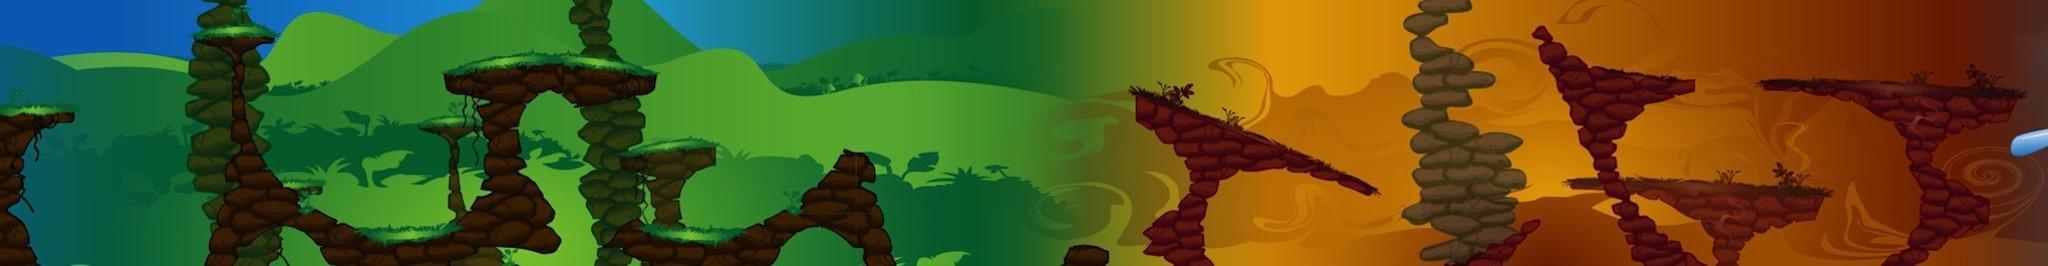
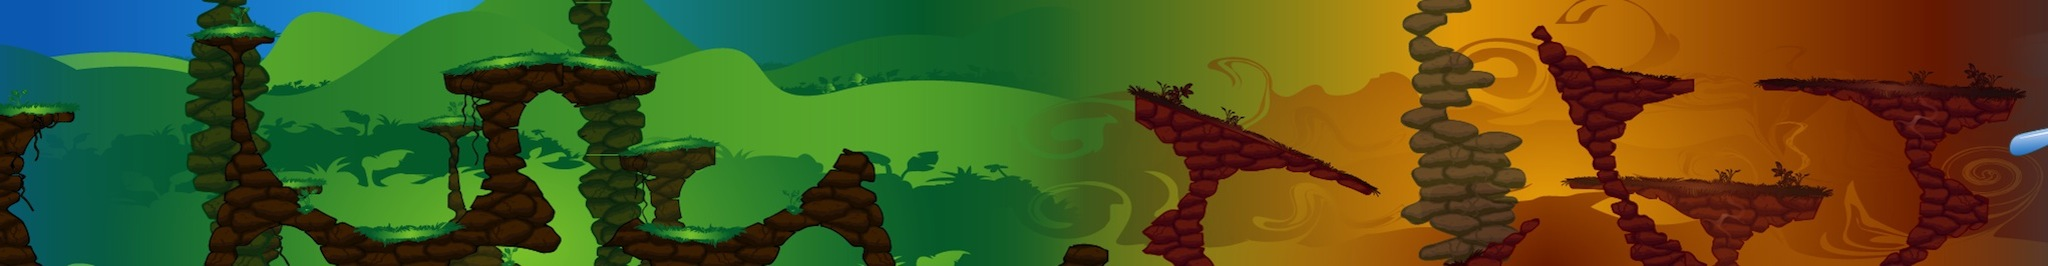
Added theme select world background image.

diff --git a/Beezle/Classes/State/LevelThemeSelectMenuState.m b/Beezle/Classes/State/LevelThemeSelectMenuState.m
@@ -8,23 +8,23 @@
 
 #import "LevelThemeSelectMenuState.h"
 #import "Game.h"
-#import "LevelOrganizer.h"
 #import "LevelThemeSelectLayer.h"
 #import "LevelSelectMenuState.h"
 #import "SoundManager.h"
 #import "PlayState.h"
 #import "Utils.h"
 #import "BeesFrontNode.h"
+#import "PlayerInformation.h"
+#import "LevelOrganizer.h"
 
 static BOOL isFirstLoad = TRUE;
-static const int NUMBER_OF_SECTIONS_IN_BACKGROUND_IMAGE = 4;
 static const float PAGE_DOT_DISTANCE = 10.0f;
 
 @interface LevelThemeSelectMenuState()
 
 -(void) createBackgroundSprite;
 -(void) createBackMenu;
--(void) createScrollLayer:(NSArray *)themes;
+-(void) createScrollLayer;
 -(void) updateBackground;
 -(void) updatePageDots:(int)page;
 
@@ -54,12 +54,18 @@ static const float PAGE_DOT_DISTANCE = 10.0f;
 
 -(id) init
 {
-	return [self initWithPreselectedTheme:[[[LevelOrganizer sharedOrganizer] visibleThemes] objectAtIndex:0]];
+	return [self initWithPreselectedTheme:[[[PlayerInformation sharedInformation] visibleThemes] objectAtIndex:0]];
 }
 
 -(void) initialise
 {
 	[super initialise];
+
+#ifdef DEBUG
+	_themes = [[[LevelOrganizer sharedOrganizer] themes] retain];
+#else
+	_themes = [[[PlayerInformation sharedInformation] visibleThemes] retain];
+#endif
 
 	[self createBackgroundSprite];
 
@@ -70,16 +76,15 @@ static const float PAGE_DOT_DISTANCE = 10.0f;
 	CGSize winSize = [[CCDirector sharedDirector] winSize];
 	_layerOffset = (int)(winSize.width * 0.42f);
 
-	NSArray *visibleThemes = [[LevelOrganizer sharedOrganizer] visibleThemes];
-	[self createScrollLayer:visibleThemes];
+	[self createScrollLayer];
 
-	_numberOfPages = [visibleThemes count];
+	_numberOfPages = [_themes count];
 
 	[self addChild:[BeesFrontNode node] z:31];
 
 	[self createBackMenu];
 
-	int index = [visibleThemes indexOfObject:_theme];
+	int index = [_themes indexOfObject:_theme];
 	[_scrollLayer selectPage:index];
 
 	[self updateBackground];
@@ -88,6 +93,7 @@ static const float PAGE_DOT_DISTANCE = 10.0f;
 
 -(void) dealloc
 {
+	[_themes release];
 	[_backgroundSprite release];
 	[_scrollLayer release];
 	[_pageDotSprites release];
@@ -103,13 +109,32 @@ static const float PAGE_DOT_DISTANCE = 10.0f;
 	CCSprite *backgroundSprite1 = [CCSprite spriteWithFile:@"ChooserSlingerBackground-1.jpg"];
 	[backgroundSprite1 setAnchorPoint:CGPointZero];
 	[_backgroundSprite addChild:backgroundSprite1];
+	_backgroundSpriteWidth += [backgroundSprite1 contentSize].width;
 
-	CCSprite *backgroundSprite2 = [CCSprite spriteWithFile:@"ChooserSlingerBackground-2.jpg"];
-	[backgroundSprite2 setAnchorPoint:CGPointZero];
-	[backgroundSprite2 setPosition:CGPointMake([backgroundSprite1 contentSize].width, 0.0f)];
-	[_backgroundSprite addChild:backgroundSprite2];
+	if ([_themes count] > 2)
+	{
+		CCSprite *backgroundSprite2 = [CCSprite spriteWithFile:@"ChooserSlingerBackground-2.jpg"];
+		[backgroundSprite2 setAnchorPoint:CGPointZero];
+		[backgroundSprite2 setPosition:CGPointMake(_backgroundSpriteWidth, 0.0f)];
+		[_backgroundSprite addChild:backgroundSprite2];
+		if ([_themes count] > 3)
+		{
+			_backgroundSpriteWidth += [backgroundSprite2 contentSize].width;
+		}
+		else
+		{
+			_backgroundSpriteWidth += [backgroundSprite2 contentSize].width / 2;
+		}
+	}
 
-	_backgroundSpriteWidth = [backgroundSprite1 contentSize].width + [backgroundSprite2 contentSize].width;
+	if ([_themes count] > 4)
+	{
+		CCSprite *backgroundSprite3 = [CCSprite spriteWithFile:@"ChooserSlingerBackground-3.jpg"];
+		[backgroundSprite3 setAnchorPoint:CGPointZero];
+		[backgroundSprite3 setPosition:CGPointMake(_backgroundSpriteWidth, 0.0f)];
+		[_backgroundSprite addChild:backgroundSprite3];
+		_backgroundSpriteWidth += [backgroundSprite3 contentSize].width;
+	}
 
 	CGSize winSize = [[CCDirector sharedDirector] winSize];
 	[_backgroundSprite setPosition:CGPointMake(0.0f, (winSize.height - [backgroundSprite1 contentSize].height) / 2)];
@@ -130,10 +155,10 @@ static const float PAGE_DOT_DISTANCE = 10.0f;
 	[self addChild:backMenu z:40];
 }
 
--(void) createScrollLayer:(NSArray *)themes
+-(void) createScrollLayer
 {
 	NSMutableArray *layers = [NSMutableArray array];
-	for (NSString *theme in themes)
+	for (NSString *theme in _themes)
 	{
 		LevelThemeSelectLayer *levelThemeSelectLayer = [LevelThemeSelectLayer layerWithTheme:theme game:_game];
 		[layers addObject:levelThemeSelectLayer];
@@ -163,7 +188,7 @@ static const float PAGE_DOT_DISTANCE = 10.0f;
 	CGSize winSize = [[CCDirector sharedDirector] winSize];
 
 	float scrollLayerX = [_scrollLayer position].x;
-	float percent = -scrollLayerX / ((NUMBER_OF_SECTIONS_IN_BACKGROUND_IMAGE - 1) * (winSize.width - _layerOffset));
+	float percent = -scrollLayerX / (([_themes count] - 1) * (winSize.width - _layerOffset));
 	percent = min(percent, 1.0f);
 	percent = max(percent, 0.0f);
 	float backgroundSpritePadding = 120.0f;

diff --git a/Beezle/Classes/Level/LevelOrganizer.m b/Beezle/Classes/Level/LevelOrganizer.m
@@ -7,7 +7,6 @@
 //
 
 #import "LevelOrganizer.h"
-#import "PlayerInformation.h"
 
 @implementation LevelOrganizer
 
@@ -73,28 +72,6 @@
 -(NSArray *) themes
 {
 	return [[_levelNamesByTheme allKeys] sortedArrayUsingSelector:@selector(localizedCaseInsensitiveCompare:)];
-}
-
--(NSArray *) visibleThemes
-{
-	NSMutableArray *visibleThemes = [NSMutableArray array];
-	for (NSString *theme in [self themes])
-	{
-		BOOL includeTheme;
-		if ([self isThemeHidden:theme])
-		{
-			includeTheme = [[PlayerInformation sharedInformation] canPlayTheme:theme];
-		}
-		else
-		{
-			includeTheme = TRUE;
-		}
-		if (includeTheme)
-		{
-			[visibleThemes addObject:theme];
-		}
-	}
-	return visibleThemes;
 }
 
 -(NSArray *) levelNamesInTheme:(NSString *)theme
@@ -183,11 +160,7 @@
 
 -(BOOL) isThemeHidden:(NSString *)theme
 {
-#ifdef DEBUG
-	return FALSE;
-#else
 	return [[_hiddenByTheme objectForKey:theme] boolValue];
-#endif
 }
 
 @end

diff --git a/Beezle/Classes/Data/Persistent/PlayerInformation.m b/Beezle/Classes/Data/Persistent/PlayerInformation.m
@@ -329,6 +329,28 @@ static NSString *PROGRESS_KEY = @"Progress";
 	return [themes objectAtIndex:0];
 }
 
+-(NSArray *) visibleThemes
+{
+	NSMutableArray *visibleThemes = [NSMutableArray array];
+	for (NSString *theme in [[LevelOrganizer sharedOrganizer] themes])
+	{
+		BOOL includeTheme;
+		if ([[LevelOrganizer sharedOrganizer] isThemeHidden:theme])
+		{
+			includeTheme = [self canPlayTheme:theme];
+		}
+		else
+		{
+			includeTheme = TRUE;
+		}
+		if (includeTheme)
+		{
+			[visibleThemes addObject:theme];
+		}
+	}
+	return visibleThemes;
+}
+
 -(void) markTutorialIdAsSeen:(NSString *)tutorialId
 {
 	[_seenTutorialIds addObject:tutorialId];

diff --git a/Beezle/Classes/Data/Persistent/PlayerInformation.h b/Beezle/Classes/Data/Persistent/PlayerInformation.h
@@ -37,6 +37,7 @@
 -(BOOL) hasPlayedLevel:(NSString *)levelName;
 -(BOOL) canPlayLevel:(NSString *)levelName;
 -(BOOL) canPlayTheme:(NSString *)theme;
+-(NSArray *) visibleThemes;
 -(NSString *) latestPlayableTheme;
 -(void) markTutorialIdAsSeen:(NSString *)tutorialId;
 -(void) markTutorialIdAsSeenAndSave:(NSString *)tutorialId;

diff --git a/Beezle/Classes/Level/LevelOrganizer.h b/Beezle/Classes/Level/LevelOrganizer.h
@@ -20,7 +20,6 @@
 -(void) addLevelNamesWithDictionary:(NSDictionary *)dict;
 -(void) addLevelNamesWithFile:(NSString *)fileName;
 -(NSArray *) themes;
--(NSArray *) visibleThemes;
 -(NSArray *) levelNamesInTheme:(NSString *)theme;
 -(NSArray *) allLevelNames;
 -(NSString *) themeForLevel:(NSString *)levelName;

diff --git a/Beezle/Classes/State/LevelThemeSelectMenuState.h b/Beezle/Classes/State/LevelThemeSelectMenuState.h
@@ -14,6 +14,7 @@
 
 @interface LevelThemeSelectMenuState : GameState <CCScrollLayerDelegate>
 {
+	NSArray *_themes;
 	CCSprite *_backgroundSprite;
 	float _backgroundSpriteWidth;
 	CCScrollLayer *_scrollLayer;
